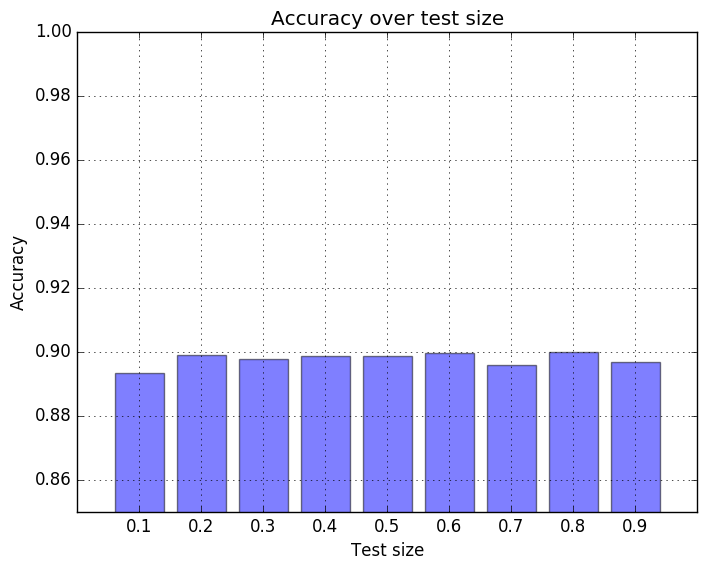
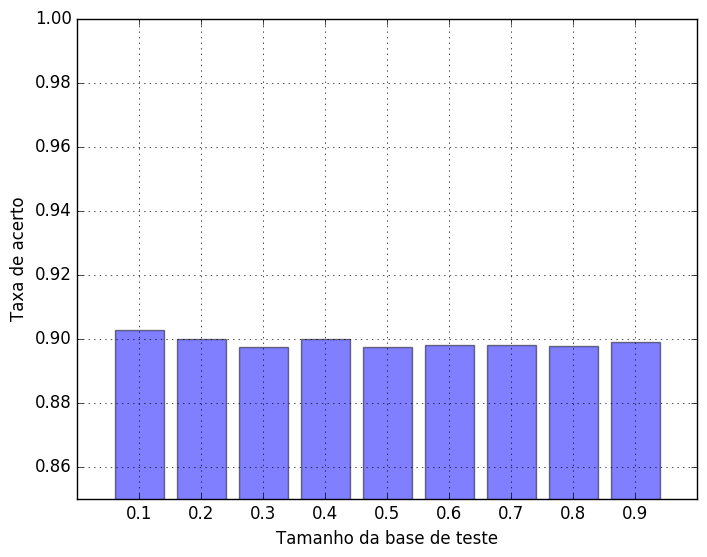
part1

diff --git a/trab1/part1/arvore.py b/trab1/part1/arvore.py
@@ -35,9 +35,9 @@ if __name__ == "__main__":
     plt.ylim(0.85, 1)
     plt.bar(y_pos, accuracies, align='center', alpha=0.5)
     plt.xticks(y_pos, sizes)
-    plt.xlabel('Test size')
-    plt.ylabel('Accuracy')
-    plt.title('Accuracy over test size')
+    plt.xlabel('Tamanho da base de teste')
+    plt.ylabel('Taxa de acerto')
+    plt.title('')
     plt.grid(True)
 
     plt.savefig('arvore_result.png', bbox_inches='tight')

diff --git a/trab1/part1/nb.py b/trab1/part1/nb.py
@@ -34,9 +34,9 @@ if __name__ == "__main__":
     plt.ylim(0.85, 1)
     plt.bar(y_pos, accuracies, align='center', alpha=0.5)
     plt.xticks(y_pos, sizes)
-    plt.xlabel('Test size')
-    plt.ylabel('Accuracy')
-    plt.title('Accuracy over test size')
+    plt.xlabel('Tamanho da base de teste')
+    plt.ylabel('Taxa de acerto')
+    plt.title('')
     plt.grid(True)
 
     plt.savefig('nb_result.png', bbox_inches='tight')
